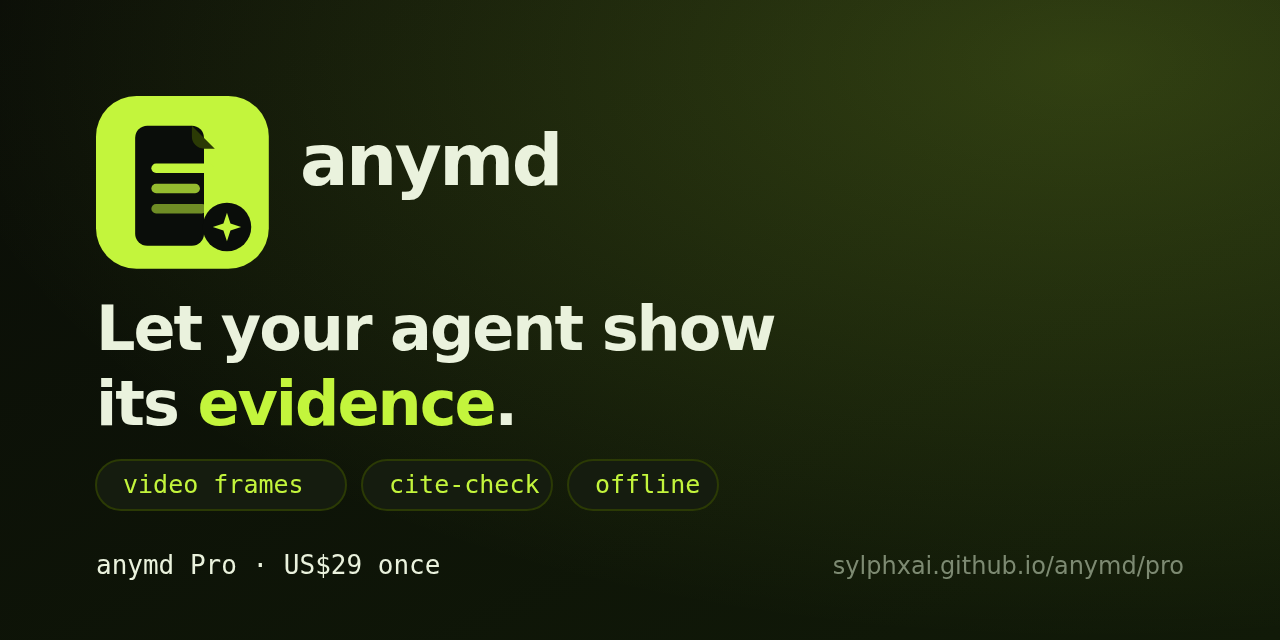
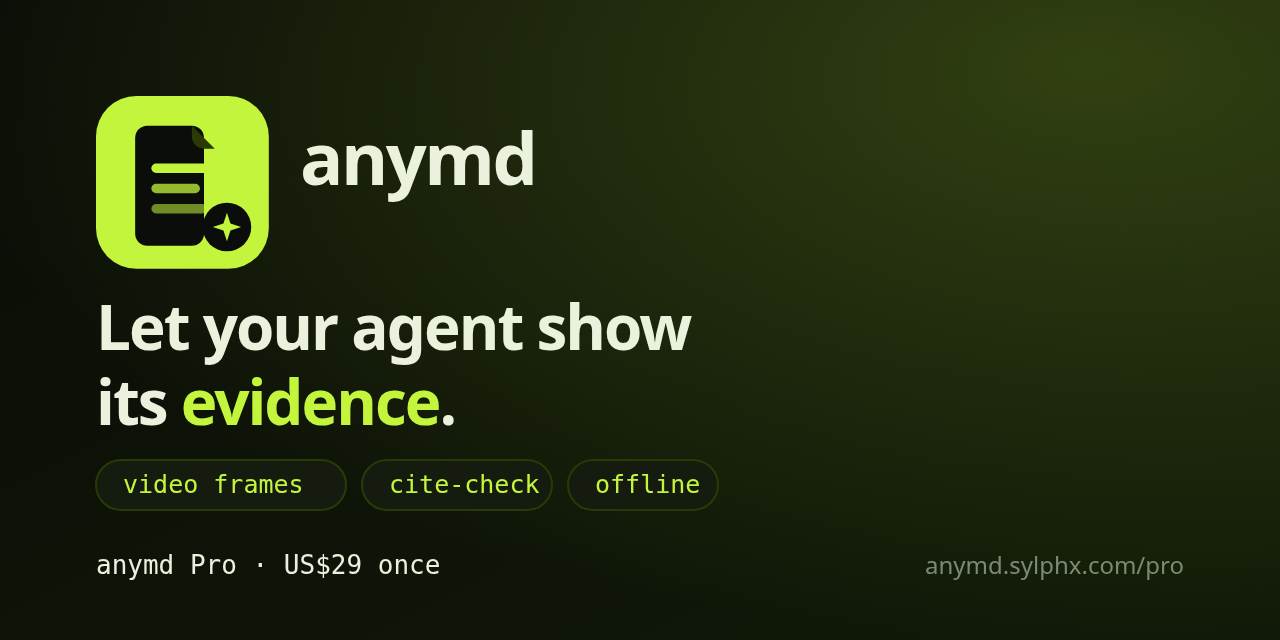
Use the canonical anymd homepage across public metadata (#1059)

Changed region(s): [[0.0625, 0.4688, 0.625, 0.6875], [0.25, 0.1875, 0.4375, 0.3125], [0.6562, 0.875, 0.9062, 0.9062]]

diff --git a/packages/pypi/tests/test_wheels.py b/packages/pypi/tests/test_wheels.py
@@ -114,6 +114,10 @@ assert convert(sys.argv[1]).text == 'matching wheel\\n'
                             )
                         )
                         self.assertEqual(metadata["Requires-Python"], ">=3.8")
+                        self.assertIn(
+                            "Homepage, https://anymd.sylphx.com",
+                            metadata.get_all("Project-URL"),
+                        )
                         record = list(
                             csv.reader(
                                 io.StringIO(archive.read(info + "RECORD").decode())

diff --git a/scripts/build-wheels.py b/scripts/build-wheels.py
@@ -42,7 +42,7 @@ def metadata(version: str) -> str:
         + "Author-email: Sylphx <hi@sylphx.com>\n"
         + "License-Expression: MIT\n"
         + "License-File: LICENSE\n"
-        + "Project-URL: Homepage, https://anymd.sylphx.com/\n"
+        + "Project-URL: Homepage, https://anymd.sylphx.com\n"
         + "Project-URL: Source, https://github.com/SylphxAI/anymd\n"
         + "Project-URL: Changelog, https://github.com/SylphxAI/anymd/blob/main/CHANGELOG.md\n"
         + "Classifier: Programming Language :: Rust\n"

diff --git a/CHANGELOG.md b/CHANGELOG.md
@@ -130,7 +130,7 @@ The anymd core stays free and open source (MIT), forever; nothing that was free 
 
 ### Minor Changes
 
-- anymd Pro licence check. `anymd pro status` and `anymd pro activate <token>` manage an offline-verified (Ed25519) licence, read from `ANYMD_PRO_TOKEN` or `<config dir>/anymd/pro-token`. Pro unlocks only the new operations below; everything that was free before 8.4.0 stays free, MIT and ungated. Without a licence, the Pro operations return a short message with the link instead of doing any work. See [anymd Pro](https://sylphxai.github.io/anymd/pro).
+- anymd Pro licence check. `anymd pro status` and `anymd pro activate <token>` manage an offline-verified (Ed25519) licence, read from `ANYMD_PRO_TOKEN` or `<config dir>/anymd/pro-token`. Pro unlocks only the new operations below; everything that was free before 8.4.0 stays free, MIT and ungated. Without a licence, the Pro operations return a short message with the link instead of doing any work. See [anymd Pro](https://anymd.sylphx.com/pro).
 
 - (anymd Pro) Add bounded local video timelines and decoded frames to `inspect`, with matching `read` and `outline` projections. Cuts are heuristic FFmpeg scene-score 0.4 detections, not semantic scenes or confidence values. Chapters and timed subtitle/ASR cues retain their playback clock and source hash. Optional OCR and captions are sampled single-frame observations; OCR reuses the existing request permit, and captions need a user-configured local-command adapter, with no built-in captioning. Malformed subtitle files become a subtitles gap instead of failing the request. Frames, manifests and successful captions share the existing generated-image cache budget. Ordinary reads remain unchanged without `timeline`.
 
@@ -245,7 +245,7 @@ The anymd core stays free and open source (MIT), forever; nothing that was free 
   
   - The npm package is now `@sylphx/anymd` with the `anymd` bin; the MCP registry
     name is `io.github.SylphxAI/anymd`; the repository is `SylphxAI/anymd`; docs
-    live at https://sylphxai.github.io/anymd/.
+    are at <https://anymd.sylphx.com>.
   - Native optional packages are renamed `@sylphx/anymd-<platform>` and ship the
     binary `anymd` (`anymd.exe` on Windows).
   - The MCP server identifies itself as `anymd`.

diff --git a/packages/aliases/pdf-reader-mcp/README.md b/packages/aliases/pdf-reader-mcp/README.md
@@ -26,6 +26,6 @@ MCP client config:
 
 ## anymd Pro ($29 once)
 
-All conversion, search, outline, OCR and transcript tools remain free and MIT licensed. Need deterministic PDF quote verification (`cite_check`) or SHA-256 verifiable video timelines and frame extraction (`video_timeline`, `render_frame`)? Get a 100-year offline licence for **US$29 once** (16 currencies, tax included) via `npx -y @sylphx/anymd pro buy` or at [sylphxai.github.io/anymd/pricing](https://anymd.sylphx.com/pricing?entry_surface=npm_pdf_reader_mcp).
+All conversion, search, outline, OCR and transcript tools remain free and MIT licensed. Need deterministic PDF quote verification (`cite_check`) or SHA-256 verifiable video timelines and frame extraction (`video_timeline`, `render_frame`)? Get a 100-year offline licence for **US$29 once** (16 currencies, tax included) via `npx -y @sylphx/anymd pro buy` or at [anymd.sylphx.com/pricing](https://anymd.sylphx.com/pricing?entry_surface=npm_pdf_reader_mcp).
 
 Docs: https://anymd.sylphx.com/

diff --git a/packages/aliases/citra/README.md b/packages/aliases/citra/README.md
@@ -26,6 +26,6 @@ MCP client config:
 
 ## anymd Pro ($29 once)
 
-All conversion, search, outline, OCR and transcript tools remain free and MIT licensed. Need deterministic PDF quote verification (`cite_check`) or SHA-256 verifiable video timelines and frame extraction (`video_timeline`, `render_frame`)? Get a 100-year offline licence for **US$29 once** (16 currencies, tax included) via `npx -y @sylphx/anymd pro buy` or at [sylphxai.github.io/anymd/pricing](https://anymd.sylphx.com/pricing?entry_surface=npm_citra).
+All conversion, search, outline, OCR and transcript tools remain free and MIT licensed. Need deterministic PDF quote verification (`cite_check`) or SHA-256 verifiable video timelines and frame extraction (`video_timeline`, `render_frame`)? Get a 100-year offline licence for **US$29 once** (16 currencies, tax included) via `npx -y @sylphx/anymd pro buy` or at [anymd.sylphx.com/pricing](https://anymd.sylphx.com/pricing?entry_surface=npm_citra).
 
 Docs: https://anymd.sylphx.com/
